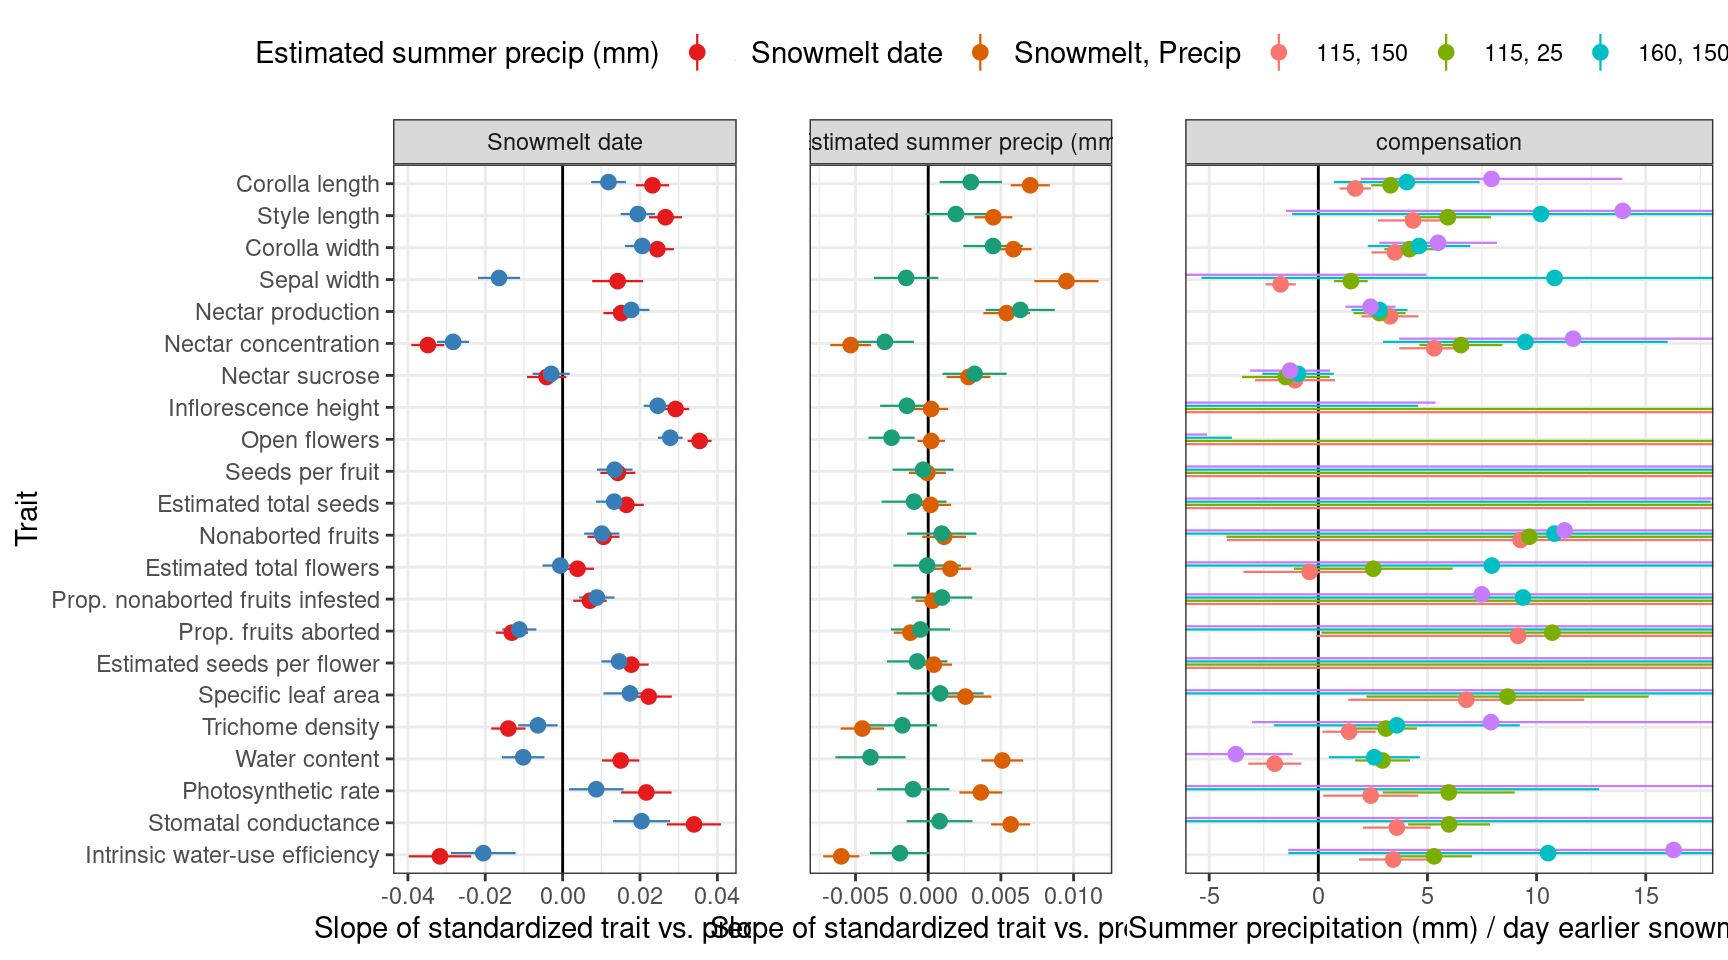
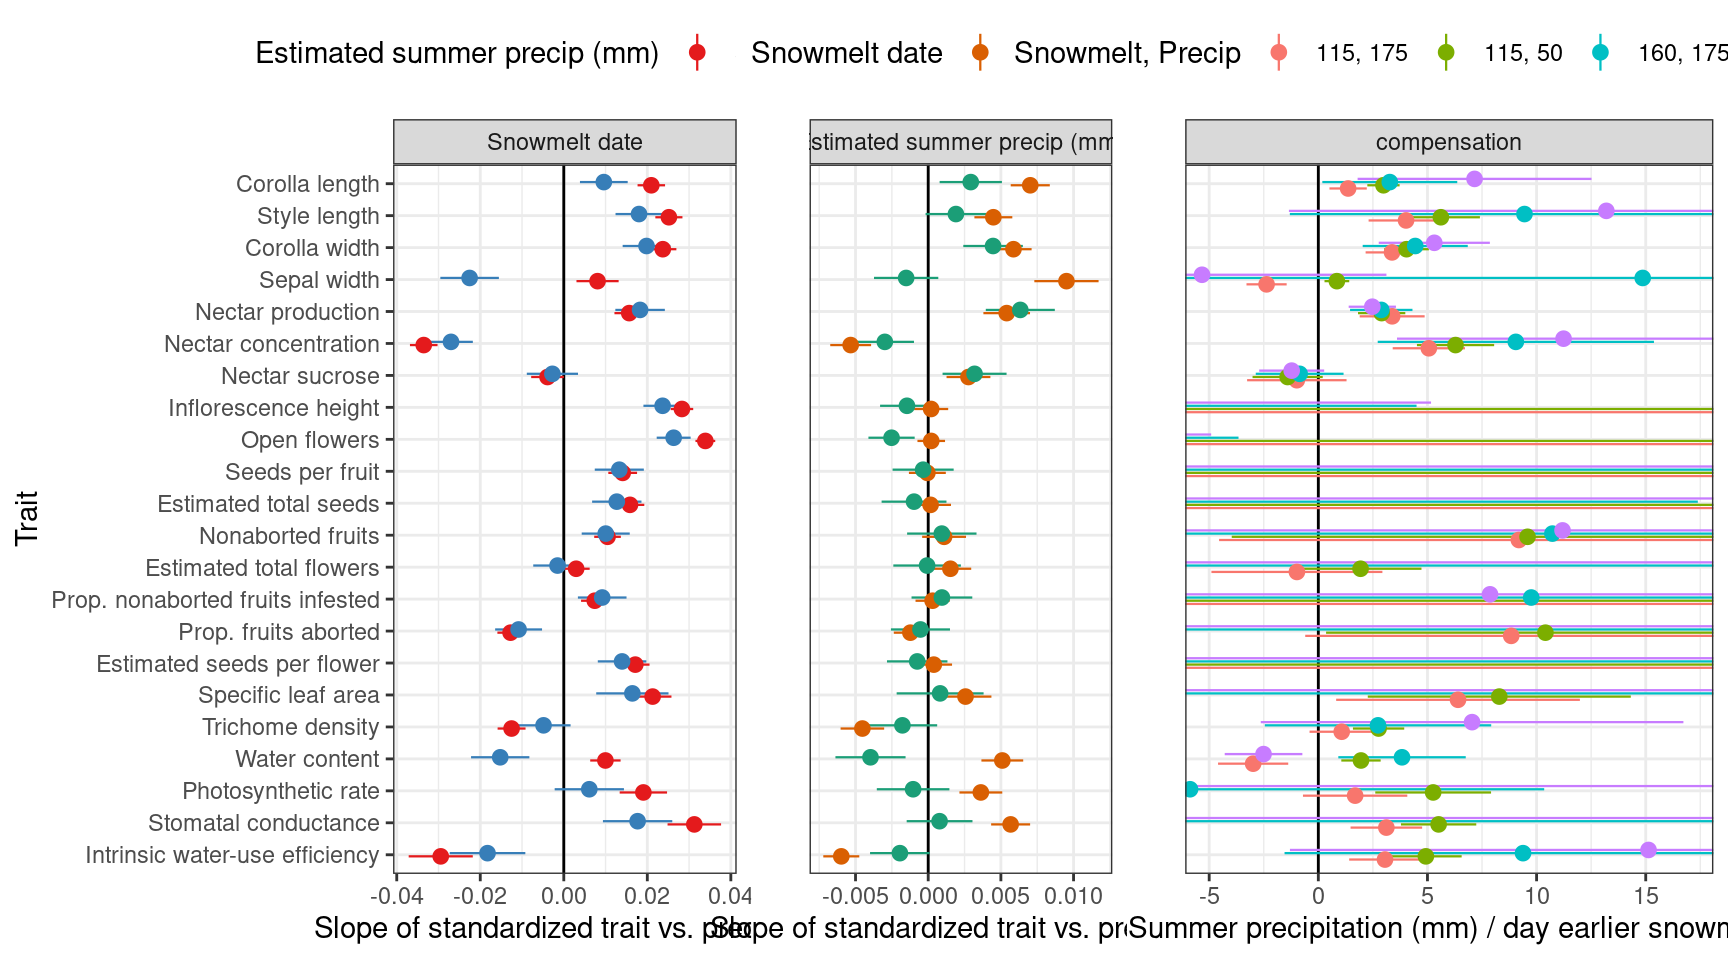
Update range of precipitation lines

diff --git a/maxfield_JP_analyses.html b/maxfield_JP_analyses.html
@@ -3627,7 +3627,7 @@ anova_table(mod.abs.tests, mod.abs) %&gt;% kable()</code></pre>
     drop_na(value, water) %&gt;% filter(trait %in% traits.plot)
   
   grid_emmeans &lt;- function(mods, use.rounds = F) {
-    grid.points &lt;- list(sun_date=range(treatments$sun_date), precip_est_mm=seq(25,150, by=25))
+    grid.points &lt;- list(sun_date=range(treatments$sun_date), precip_est_mm=seq(50,175, by=25))
     if(use.rounds)  map_dfr(mods, ~ summary(emmeans(.x, ~ precip_est_mm * sun_date * round, at=grid.points)), .id=&quot;trait&quot;)
     else            map_dfr(mods, ~ summary(emmeans(.x, ~ precip_est_mm * sun_date,         at=grid.points)), .id=&quot;trait&quot;)
   }
@@ -3641,8 +3641,8 @@ anova_table(mod.abs.tests, mod.abs) %&gt;% kable()</code></pre>
     geom_point(data = data.long, aes(y=value, shape=year), size=2) + geom_line() + 
     scale_color_gradientn(colors=rev(water_pal), 
                           values=rev(c(1, (treatments %&gt;% group_by(water) %&gt;% summarize(across(precip_est_mm, mean)) %&gt;%
-                                             pull(precip_est_mm) %&gt;% scales::rescale(from=c(25,150)))[2],0)),
-                          breaks=seq(25,150, by=25)) + 
+                                             pull(precip_est_mm) %&gt;% scales::rescale(from=c(50,175)))[2],0)),
+                          breaks=seq(50,175, by=25)) + 
     labs(x=&quot;Snowmelt date&quot;, y=&quot;Standardized trait&quot;, color=&quot;Summer\nprecipitation\n(mm)&quot;, shape=&quot;Year&quot;) + 
     scale_y_continuous(position=&quot;right&quot;)+
     theme_minimal() + theme(text=element_text(color=&quot;black&quot;, size=14), axis.text = element_text(color=&quot;black&quot;),
@@ -3936,7 +3936,7 @@ mod.abs.emm.avg.compensate %&gt;% select(-predictor) %&gt;% kable(digits=3)</cod
 </table>
 <p>Compensation points calculated at four corners of the ranges of environemtnal variables</p>
 <pre class="r"><code>#get slopes with emtrends at range of other predictor, and scale slopes by SD of the plant means
-predictor.ranges &lt;- list(sun_date=c(115,160) , precip_est_mm=c(25, 150)) #a bit narrower than the experiment
+predictor.ranges &lt;- list(sun_date=c(115,160) , precip_est_mm=c(50, 175)) #a bit narrower than the experiment
 mod.abs.emm &lt;- map_dfr(set_names(c(&quot;sun_date&quot;, &quot;precip_est_mm&quot;)), 
                    ~ mod.abs %&gt;% 
                      map(emtrends, var = .x, 
